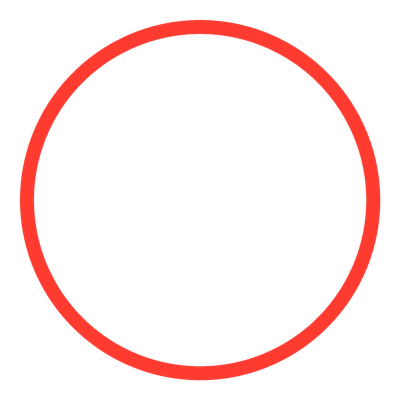
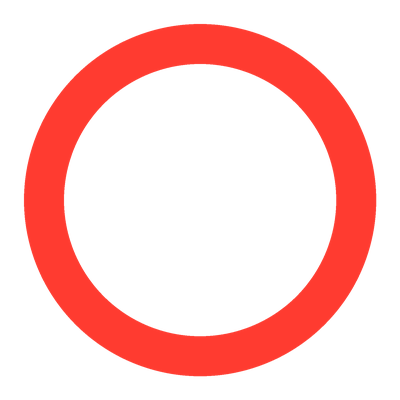
Znaczniki: grubsze okręgi (40 px) + wersja _bardzo_gruby (70 px)
Po pomniejszeniu w DaVinci cienka obwódka (14 px) była ledwo widoczna.

Claude-Session: https://claude.ai/code/session_01DmSsWA22PfkAfZF4fkvDYN

Changed region(s): [[0.03, 0.03, 0.96, 0.96]]

diff --git a/narzedzia/plansze_objasniajace/znaczniki_montaz.py b/narzedzia/plansze_objasniajace/znaczniki_montaz.py
@@ -3,7 +3,7 @@ Kolory kanału: zielony #00D084, czerwony #FF3B30, biały #F2F2F2.
 
 Uruchomienie (z głównego folderu repo):
     python narzedzia/plansze_objasniajace/znaczniki_montaz.py
-→ nagrania/_montaz/znaczniki/ (okrag_*, ramka_*, strzalki/strzalka_<kolor>_<nachylenie>.png)
+→ nagrania/_montaz/znaczniki/ (okrag_<kolor>[_bardzo_gruby], ramka_*, strzalki/strzalka_<kolor>_<nachylenie>.png)
 
 W DaVinci: PNG na ścieżkę V2 nad nagraniem, Inspector → Transform (Position, Zoom,
 Rotation Angle dla kąta pośredniego), fade ~5 klatek na początku i końcu.
@@ -25,9 +25,15 @@ def nazwa_kata(a):
     return "poziomo" if a == 0 else (f"gora_{a}st" if a > 0 else f"dol_{-a}st")
 
 
-def okrag(c, path):
+# Grubość obwódki w px na kanwie 400×400. Okrąg mocno pomniejszany w DaVinci (małe rzeczy na ekranie)
+# traci grubość proporcjonalnie, więc linia jest gruba: 40 px = po Zoom 0,25 nadal ~10 px.
+OKRAG_GRUBOSC = {"": 40, "_bardzo_gruby": 70}
+
+
+def okrag(c, path, grubosc=40):
     im = Image.new("RGBA", (400 * S, 400 * S), (0, 0, 0, 0))
-    ImageDraw.Draw(im).ellipse([20 * S, 20 * S, 380 * S, 380 * S], outline=c, width=14 * S)
+    m = grubosc // 2 + 4  # margines, żeby obwódka nie wychodziła poza kanwę
+    ImageDraw.Draw(im).ellipse([m * S, m * S, (400 - m) * S, (400 - m) * S], outline=c, width=grubosc * S)
     im.resize((400, 400), Image.LANCZOS).save(path)
 
 
@@ -66,7 +72,8 @@ def podglad(path):
 def main():
     (OUT / "strzalki").mkdir(parents=True, exist_ok=True)
     for k, c in KOLORY.items():
-        okrag(c, OUT / f"okrag_{k}.png")
+        for sufiks, g in OKRAG_GRUBOSC.items():
+            okrag(c, OUT / f"okrag_{k}{sufiks}.png", g)
         ramka(c, OUT / f"ramka_{k}.png")
         for a in KATY:
             strzalka(c, a, OUT / "strzalki" / f"strzalka_{STRZALKA[k]}_{nazwa_kata(a)}.png")
